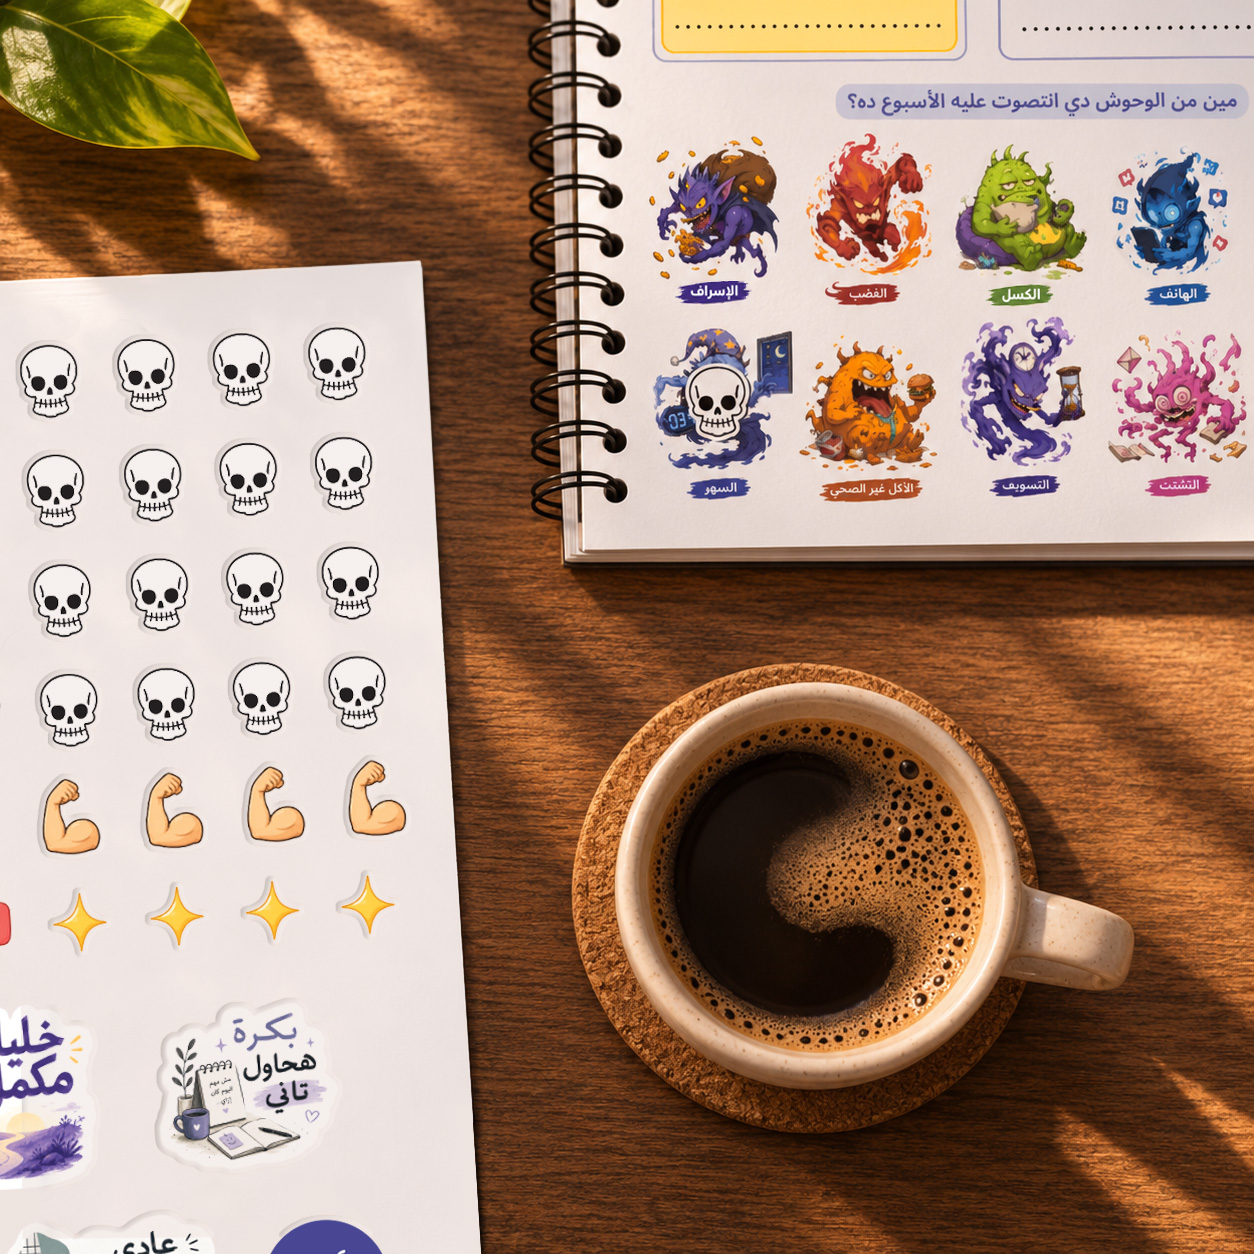
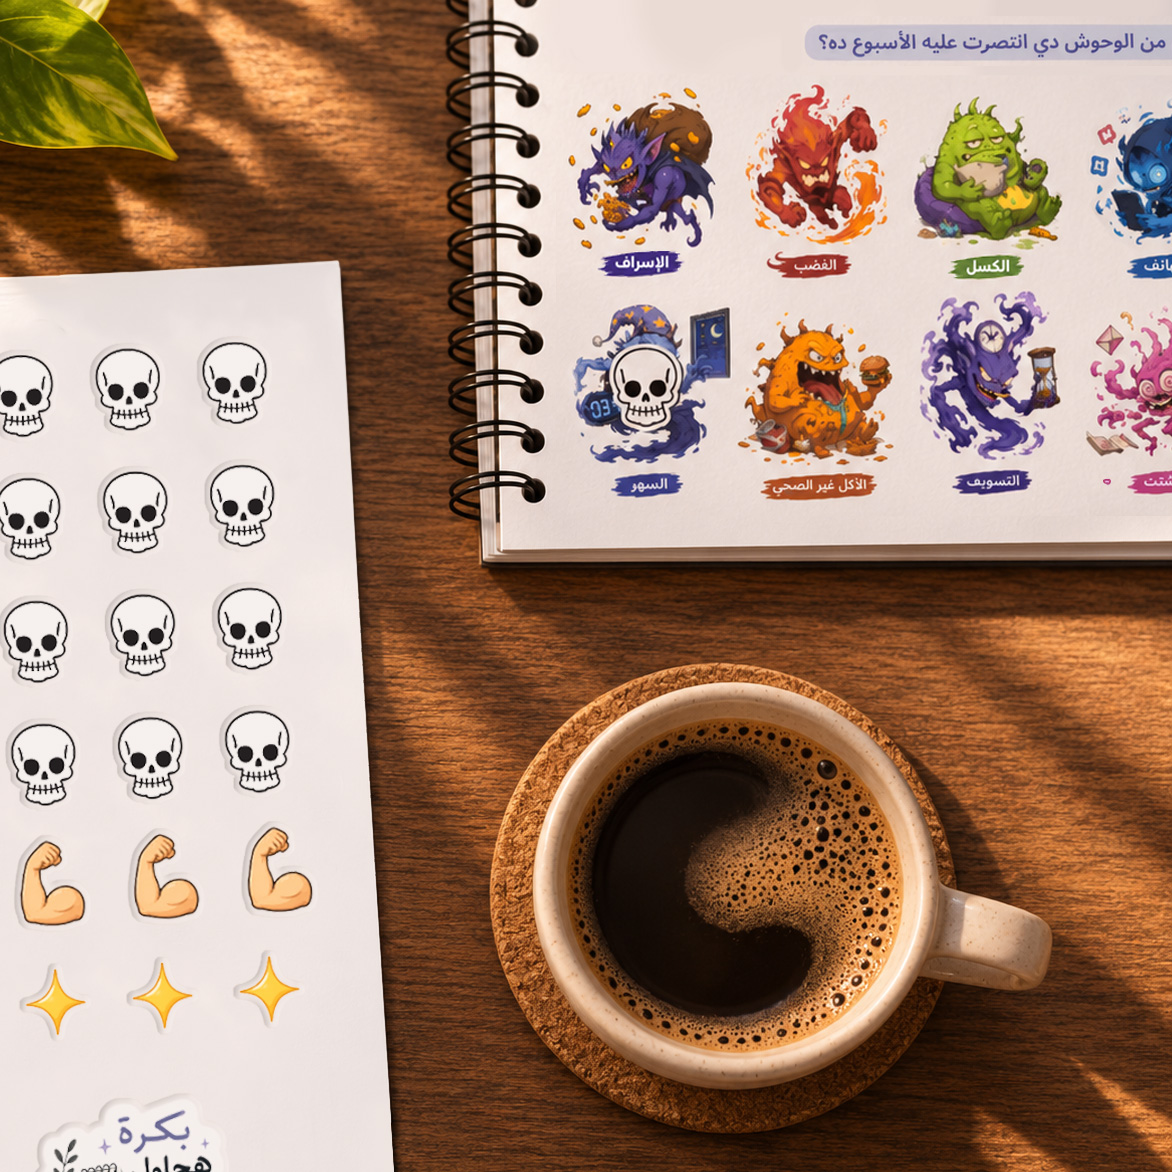
edited monsters page

diff --git a/src/sections/Section3FAQ.jsx b/src/sections/Section3FAQ.jsx
@@ -63,16 +63,14 @@ export default function Section3FAQ() {
                   <ChevronDown />
                 </span>
               </button>
-
-              {/* حاوية الإجابة المتحركة بالـ CSS Grid */}
+              {/* حاوية الإجابة المتحركة */}
               <div
                 className={`grid transition-all duration-300 ease-in-out ${
                   isOpen ? "grid-rows-[1fr]" : "grid-rows-[0fr]"
                 }`}
               >
-                {/* الديف الداخلي المقفول عليه الـ overflow */}
-                <div className="overflow-hidden bg-white pt-4">
-                  <p className="p-5 pt-0 text-[#1E252D]/80 leading-relaxed text-sm md:text-base border-[#8879B3]/10">
+                <div className="min-h-0 overflow-hidden bg-white">
+                  <p className="px-5 pt-4 pb-5 text-[#1E252D]/80 leading-relaxed text-sm md:text-base">
                     {faq.a}
                   </p>
                 </div>
